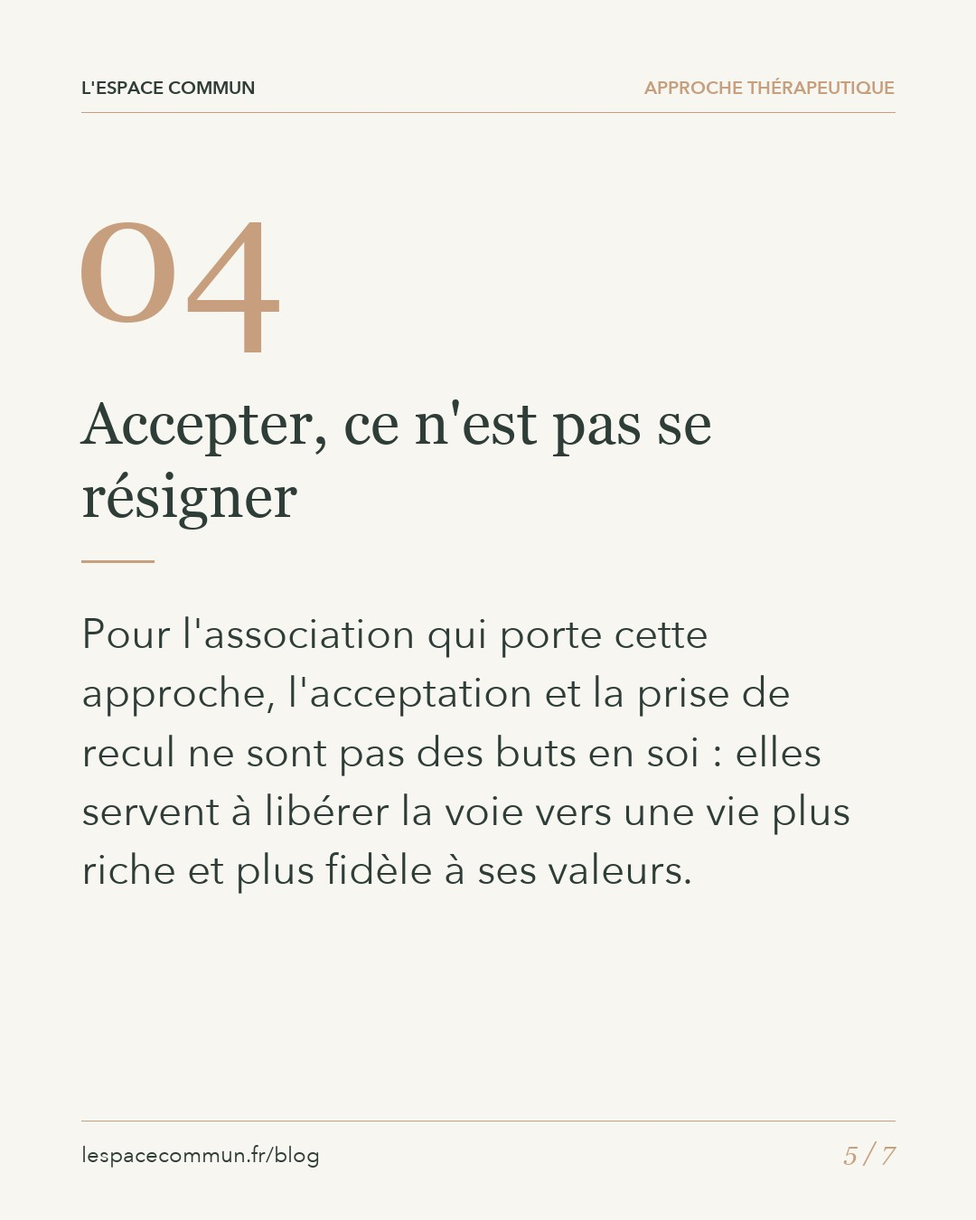
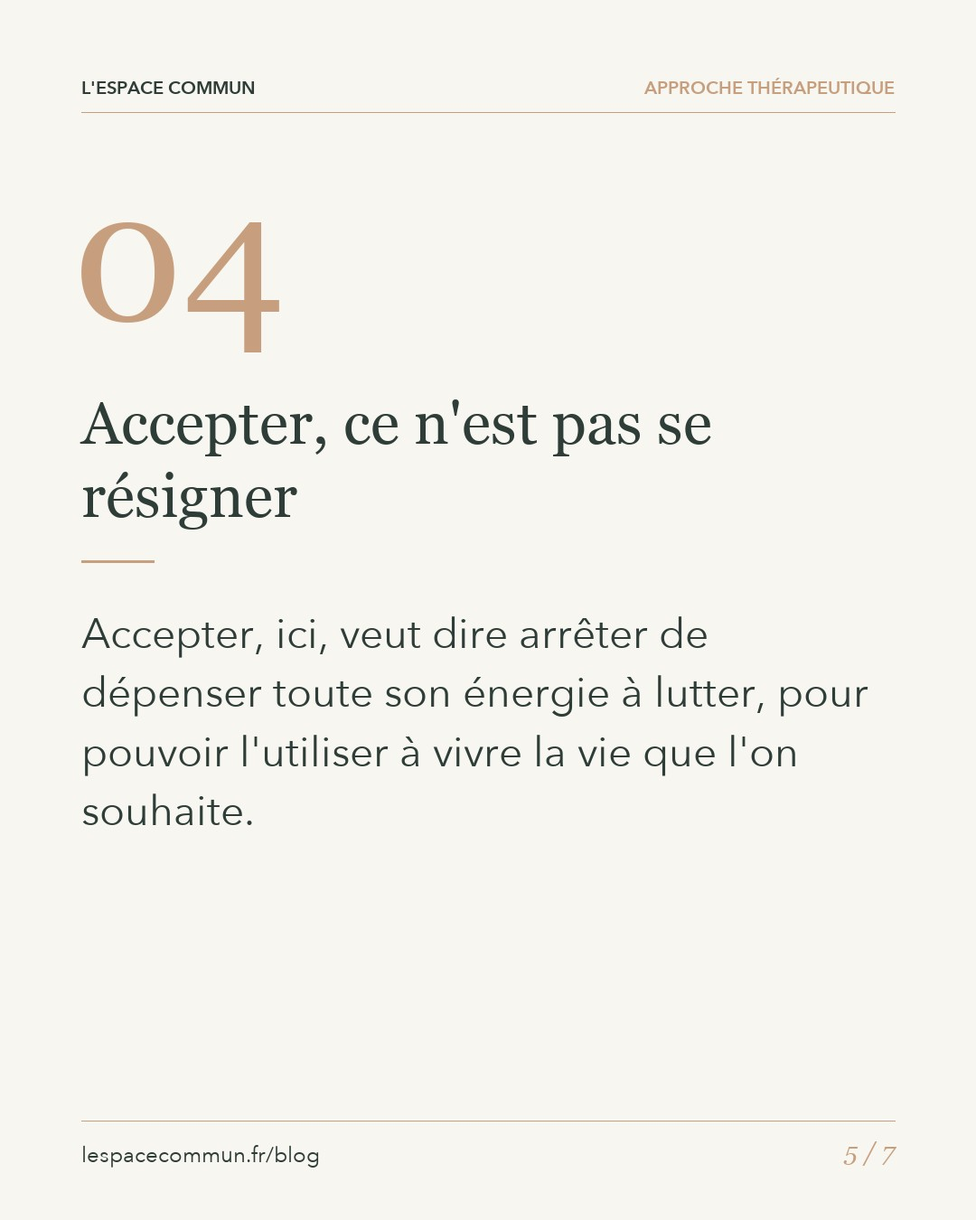
Blog : article ACT simplifié

diff --git a/blog/therapie-acceptation-engagement.html b/blog/therapie-acceptation-engagement.html
@@ -3,14 +3,14 @@
 <head>
   <meta charset="utf-8" />
   <meta name="viewport" content="width=device-width, initial-scale=1" />
-  <title>La thérapie d&#x27;acceptation et d&#x27;engagement (ACT) : cesser de lutter contre ses pensées pour avancer — Blog L&#x27;Espace Commun</title>
-  <meta name="description" content="Et si, plutôt que de chercher à faire taire ses pensées douloureuses, on apprenait à vivre avec elles sans les laisser décider à sa place ? C&#x27;est le pari de la thérapie d&#x27;acceptation et d&#x27;engagement, une approche issue des thérapies comportementales et cognitives, dont nous vous présentons les principes et ce que la recherche en dit." />
+  <title>La thérapie d&#x27;acceptation et d&#x27;engagement (ACT) : arrêter de lutter contre ses pensées pour mieux vivre — Blog L&#x27;Espace Commun</title>
+  <meta name="description" content="Et si, au lieu de vous battre contre vos pensées difficiles, vous appreniez à les laisser passer pour vous consacrer à ce qui compte pour vous ? C&#x27;est l&#x27;idée de la thérapie d&#x27;acceptation et d&#x27;engagement : voici, en mots simples, comment elle fonctionne et ce qu&#x27;elle peut vous apporter." />
   <link rel="canonical" href="https://lespacecommun.fr/blog/therapie-acceptation-engagement.html" />
   <meta property="og:type" content="website" />
   <meta property="og:locale" content="fr_FR" />
   <meta property="og:site_name" content="L'Espace Commun" />
-  <meta property="og:title" content="La thérapie d&#x27;acceptation et d&#x27;engagement (ACT) : cesser de lutter contre ses pensées pour avancer — Blog L&#x27;Espace Commun" />
-  <meta property="og:description" content="Et si, plutôt que de chercher à faire taire ses pensées douloureuses, on apprenait à vivre avec elles sans les laisser décider à sa place ? C&#x27;est le pari de la thérapie d&#x27;acceptation et d&#x27;engagement, une approche issue des thérapies comportementales et cognitives, dont nous vous présentons les principes et ce que la recherche en dit." />
+  <meta property="og:title" content="La thérapie d&#x27;acceptation et d&#x27;engagement (ACT) : arrêter de lutter contre ses pensées pour mieux vivre — Blog L&#x27;Espace Commun" />
+  <meta property="og:description" content="Et si, au lieu de vous battre contre vos pensées difficiles, vous appreniez à les laisser passer pour vous consacrer à ce qui compte pour vous ? C&#x27;est l&#x27;idée de la thérapie d&#x27;acceptation et d&#x27;engagement : voici, en mots simples, comment elle fonctionne et ce qu&#x27;elle peut vous apporter." />
   <meta property="og:url" content="https://lespacecommun.fr/blog/therapie-acceptation-engagement.html" />
   <meta property="og:image" content="https://lespacecommun.fr/images/espace-commun.jpg" />
   <link rel="icon" type="image/png" href="../images/favicon.png" />
@@ -104,34 +104,34 @@
 
   <article class="px-6 pt-10 pb-8 md:pt-14">
     <div class="mx-auto max-w-3xl">
-      <nav aria-label="Fil d'Ariane" class="mb-8 flex flex-wrap items-center gap-2 text-xs text-muted-foreground"><a href="../index.html" class="hover:text-sage">Accueil</a><span aria-hidden="true" class="text-border">/</span><a href="../blog/index.html" class="hover:text-sage">Blog</a><span aria-hidden="true" class="text-border">/</span><span class="text-foreground">La thérapie d&#x27;acceptation et d&#x27;engagement (ACT) : cesser de lutter contre ses pensées pour avancer</span></nav>
-      <p class="mb-5 flex flex-wrap items-center gap-x-3 gap-y-1 text-xs text-muted-foreground"><span class="font-semibold uppercase tracking-widest text-clay">Approche thérapeutique</span><time datetime="2026-10-23">23 octobre 2026</time><span>· 5 min de lecture</span></p>
-      <h1 class="mb-6 text-balance font-serif text-3xl leading-tight text-sage md:text-5xl">La thérapie d&#x27;acceptation et d&#x27;engagement (ACT) : cesser de lutter contre ses pensées pour avancer</h1>
-      <p class="mb-12 text-pretty text-lg leading-relaxed text-foreground/80">Et si, plutôt que de chercher à faire taire ses pensées douloureuses, on apprenait à vivre avec elles sans les laisser décider à sa place ? C&#x27;est le pari de la thérapie d&#x27;acceptation et d&#x27;engagement, une approche issue des thérapies comportementales et cognitives, dont nous vous présentons les principes et ce que la recherche en dit.</p>
+      <nav aria-label="Fil d'Ariane" class="mb-8 flex flex-wrap items-center gap-2 text-xs text-muted-foreground"><a href="../index.html" class="hover:text-sage">Accueil</a><span aria-hidden="true" class="text-border">/</span><a href="../blog/index.html" class="hover:text-sage">Blog</a><span aria-hidden="true" class="text-border">/</span><span class="text-foreground">La thérapie d&#x27;acceptation et d&#x27;engagement (ACT) : arrêter de lutter contre ses pensées pour mieux vivre</span></nav>
+      <p class="mb-5 flex flex-wrap items-center gap-x-3 gap-y-1 text-xs text-muted-foreground"><span class="font-semibold uppercase tracking-widest text-clay">Approche thérapeutique</span><time datetime="2026-10-23">23 octobre 2026</time><span>· 4 min de lecture</span></p>
+      <h1 class="mb-6 text-balance font-serif text-3xl leading-tight text-sage md:text-5xl">La thérapie d&#x27;acceptation et d&#x27;engagement (ACT) : arrêter de lutter contre ses pensées pour mieux vivre</h1>
+      <p class="mb-12 text-pretty text-lg leading-relaxed text-foreground/80">Et si, au lieu de vous battre contre vos pensées difficiles, vous appreniez à les laisser passer pour vous consacrer à ce qui compte pour vous ? C&#x27;est l&#x27;idée de la thérapie d&#x27;acceptation et d&#x27;engagement : voici, en mots simples, comment elle fonctionne et ce qu&#x27;elle peut vous apporter.</p>
       
           <section class="mb-12">
-            <h2 class="mb-5 text-balance font-serif text-2xl text-sage md:text-3xl">Une thérapie de la « troisième vague »</h2>
-            <div class="prose-ec"><p>La thérapie d'acceptation et d'engagement est souvent désignée par son sigle anglais, <strong>ACT</strong> (pour <em>Acceptance and Commitment Therapy</em>), qui se prononce comme le mot anglais <em>act</em>, « agir ». Elle appartient à la grande famille des thérapies comportementales et cognitives (TCC), et plus précisément à ce que l'on appelle leur « troisième vague », aux côtés de la thérapie comportementale dialectique ou de la thérapie cognitive basée sur la pleine conscience.</p><p>Son modèle a été présenté en détail en 2006 par le psychologue Steven C. Hayes et ses collègues, dans un article de synthèse de la revue <em>Behaviour Research and Therapy</em>. Il s'appuie sur un programme de recherche fondamentale consacré à la façon dont le langage et la pensée humaine fonctionnent.</p></div>
+            <h2 class="mb-5 text-balance font-serif text-2xl text-sage md:text-3xl">L&#x27;ACT, qu&#x27;est-ce que c&#x27;est ?</h2>
+            <div class="prose-ec"><p>ACT, c'est le sigle anglais de la <strong>thérapie d'acceptation et d'engagement</strong>. On le prononce comme le mot anglais <em>act</em>, qui veut dire « agir ». Ce n'est pas un hasard : cette thérapie aide à passer à l'action dans sa vie, même quand on ne se sent pas au mieux.</p><p>Elle fait partie de la grande famille des thérapies comportementales et cognitives (TCC). Elle a été développée par le psychologue américain <strong>Steven Hayes</strong> et ses collègues.</p></div>
           </section>
           <section class="mb-12">
-            <h2 class="mb-5 text-balance font-serif text-2xl text-sage md:text-3xl">Changer sa relation à ses pensées, plutôt que ses pensées</h2>
-            <div class="prose-ec"><p>Dans une thérapie cognitive classique, on apprend souvent à repérer une pensée qui fait souffrir (« je vais tout rater ») pour la discuter et la remplacer par une pensée plus juste. L'ACT prend un autre chemin : elle ne cherche pas d'abord à modifier le contenu des pensées, mais <strong>la relation que vous entretenez avec elles</strong>.</p><p>L'idée de départ est simple : beaucoup de souffrance vient de nos efforts pour ne plus ressentir l'angoisse, la tristesse ou la honte. On évite des situations, on rumine, on se distrait sans cesse… et la vie se rétrécit. Les spécialistes parlent d'<strong>évitement expérientiel</strong>. L'ACT propose de laisser de la place à ces vécus difficiles, pour consacrer son énergie à ce qui compte vraiment pour soi.</p><p>L'objectif central porte un nom : la <strong>flexibilité psychologique</strong>. L'Association for Contextual Behavioral Science, qui fédère les praticiens et chercheurs de l'ACT, la définit comme la capacité à être pleinement présent à ce que l'on vit, et à changer ou poursuivre un comportement selon qu'il sert, ou non, ce à quoi l'on tient.</p></div>
+            <h2 class="mb-5 text-balance font-serif text-2xl text-sage md:text-3xl">L&#x27;idée de départ : arrêter de lutter</h2>
+            <div class="prose-ec"><p>Quand une pensée ou une émotion nous fait mal, notre réflexe est de vouloir la faire disparaître. On évite ce qui nous angoisse, on ressasse, on s'occupe sans arrêt pour ne pas y penser. Le problème, c'est que cette lutte épuise. Et peu à peu, la vie se rétrécit.</p><p>Prenons un exemple. Vous avez peur de parler en public, alors vous refusez toutes les occasions de prendre la parole. Sur le moment, c'est un soulagement. Mais à force, vous renoncez à des projets qui vous tenaient à cœur.</p><p>L'ACT propose un autre chemin : ne plus chercher à tout prix à faire taire ces pensées, mais <strong>apprendre à vivre avec elles</strong>, sans les laisser décider à votre place.</p></div>
           </section>
           <section class="mb-12">
-            <h2 class="mb-5 text-balance font-serif text-2xl text-sage md:text-3xl">Les six piliers de l&#x27;ACT</h2>
-            <div class="prose-ec"><p>Le travail s'organise autour de six processus, souvent représentés sous la forme d'un hexagone (l'« hexaflex ») :</p><ul><li><strong>L'acceptation</strong> : accueillir une émotion ou une sensation pénible sans engager une lutte épuisante pour la faire disparaître.</li><li><strong>La défusion</strong> : prendre du recul vis-à-vis de ses pensées, les voir comme des pensées plutôt que comme des vérités. Un exercice courant consiste à se dire : « je remarque que j'ai la pensée que… ».</li><li><strong>Le contact avec le moment présent</strong> : revenir à l'ici et maintenant, par exemple grâce à des exercices de respiration ou de marche en pleine conscience.</li><li><strong>Le soi comme contexte</strong> : découvrir la part de soi qui observe ses pensées et ses émotions. Une image souvent utilisée : vous êtes le ciel, et vos émotions sont la météo qui passe sans changer le ciel.</li><li><strong>Les valeurs</strong> : clarifier ce qui compte pour vous (la tendresse, la curiosité, le lien aux autres…). Ce sont des directions de vie, et non des objectifs que l'on coche une fois pour toutes.</li><li><strong>L'action engagée</strong> : poser, pas à pas, des actes concrets qui vont dans le sens de ces valeurs, à l'aide d'objectifs à court, moyen et long terme.</li></ul></div>
+            <h2 class="mb-5 text-balance font-serif text-2xl text-sage md:text-3xl">Comment se passe une séance ?</h2>
+            <div class="prose-ec"><p>Le psychologue vous aide à développer six capacités, avec des exercices simples :</p><ul><li><strong>Accueillir</strong> une émotion désagréable au lieu de vous battre contre elle.</li><li><strong>Prendre du recul</strong> sur vos pensées. Par exemple, au lieu de « je suis nul », vous dites : « je remarque que j'ai la pensée que je suis nul ». La pensée est toujours là, mais elle pèse moins.</li><li><strong>Revenir au moment présent</strong>, grâce à des exercices de respiration ou d'attention à ce qui vous entoure.</li><li><strong>Prendre de la hauteur</strong>. Une image souvent utilisée : vous êtes le ciel, et vos émotions sont la météo. Les nuages passent, le ciel reste.</li><li><strong>Savoir ce qui compte pour vous</strong> : vos proches, votre curiosité, votre envie d'apprendre ou d'aider les autres…</li><li><strong>Agir pas à pas</strong> dans cette direction, avec de petits objectifs concrets.</li></ul></div>
           </section>
           <section class="mb-12">
             <h2 class="mb-5 text-balance font-serif text-2xl text-sage md:text-3xl">Accepter, ce n&#x27;est pas se résigner</h2>
-            <div class="prose-ec"><p>Le mot « acceptation » peut faire peur : faudrait-il se contenter de souffrir ? Ce n'est pas le sens de la démarche. Pour l'association qui porte cette approche, l'acceptation et la prise de recul ne sont pas des buts en soi : elles servent à <strong>libérer la voie vers une vie plus riche et plus fidèle à ses valeurs</strong>.</p><p>Concrètement, une question revient souvent en séance : pouvez-vous ressentir cela… et faire quand même ce qui compte pour vous ? Une personne anxieuse peut, par exemple, accepter le trac sans attendre qu'il disparaisse pour retourner voir ses amis ou prendre la parole en réunion. Le thérapeute aide aussi à distinguer les stratégies qui soulagent sur le moment de celles qui rapprochent d'une vie qui a du sens.</p></div>
+            <div class="prose-ec"><p>Le mot « acceptation » peut faire peur : faudrait-il se contenter de souffrir ? Pas du tout. Accepter, ici, veut dire arrêter de dépenser toute son énergie à lutter, pour pouvoir <strong>l'utiliser à vivre la vie que l'on souhaite</strong>.</p><p>En séance, une question revient souvent : « Pouvez-vous ressentir cela, et faire quand même ce qui compte pour vous ? » Une personne anxieuse peut ainsi retourner voir ses amis sans attendre que son trac ait disparu.</p></div>
           </section>
           <section class="mb-12">
-            <h2 class="mb-5 text-balance font-serif text-2xl text-sage md:text-3xl">Ce que dit la recherche</h2>
-            <div class="prose-ec"><p>L'ACT a fait l'objet de nombreuses études. Une revue publiée en 2019 dans la revue <em>Innovations in Clinical Neuroscience</em> (Carlile et coll.) recensait déjà plus de 280 essais contrôlés randomisés, portant notamment sur la dépression, l'anxiété, l'anxiété sociale, les douleurs chroniques, les symptômes psychotiques ou les troubles des conduites alimentaires.</p><p>En 2020, une équipe internationale dirigée par Andrew Gloster a rassemblé 20 méta-analyses (des études qui regroupent elles-mêmes de nombreux essais), soit environ 12 500 participants. Ses conclusions :</p><ul><li>l'ACT s'est montrée <strong>efficace dans toutes les situations examinées</strong> : anxiété, dépression, consommation de substances, douleur, difficultés mêlant plusieurs troubles ;</li><li>elle fait généralement mieux que l'absence de traitement, que les soins habituels et que la plupart des autres interventions ;</li><li>elle obtient des <strong>résultats comparables</strong> à ceux des TCC plus classiques.</li></ul><p>Ces résultats font de l'ACT une approche sérieuse et bien étudiée, qui peut aider dans de nombreuses situations.</p></div>
+            <h2 class="mb-5 text-balance font-serif text-2xl text-sage md:text-3xl">Est-ce que ça marche ?</h2>
+            <div class="prose-ec"><p>Oui. L'ACT est l'une des approches les plus étudiées de ces dernières années, avec <strong>plus de 280 études</strong> menées à travers le monde. Elles montrent qu'elle aide dans de nombreuses situations : l'anxiété, la dépression, les addictions, les douleurs chroniques.</p><p>Ses résultats sont comparables à ceux des TCC plus classiques. C'est donc une approche sérieuse, qui peut vous convenir si sa façon de voir les choses vous parle.</p></div>
           </section>
           <section class="mb-12">
             <h2 class="mb-5 text-balance font-serif text-2xl text-sage md:text-3xl">Et si cette approche vous parle ?</h2>
-            <div class="prose-ec"><p>L'ACT peut convenir aux personnes qui ont le sentiment de se battre en permanence contre leurs pensées ou leurs émotions, qui évitent de plus en plus de situations, ou qui traversent une épreuve qu'elles ne peuvent pas changer pour le moment. Elle peut aussi intégrer d'autres outils, comme la fixation d'objectifs ou l'exposition progressive aux situations redoutées.</p><p>Chaque parcours est unique, et le choix d'une approche se fait toujours avec un professionnel. Chez L'Espace Commun, Andie, fondatrice du centre, prend le temps d'écouter votre demande et vous oriente vers le psychologue le plus adapté à votre situation.</p></div>
+            <div class="prose-ec"><p>L'ACT peut vous aider si vous avez l'impression de vous battre sans cesse contre vos pensées ou vos émotions, si vous évitez de plus en plus de situations, ou si vous traversez une épreuve que vous ne pouvez pas changer pour l'instant.</p><p>Chez L'Espace Commun, Andie, fondatrice du centre, prend le temps d'écouter votre demande et vous oriente vers le psychologue le plus adapté à votre situation.</p></div>
           </section>
       <a href="../approches/tcc.html" class="mb-10 flex items-center justify-between gap-4 rounded-2xl bg-secondary p-6 ring-1 ring-border transition-colors hover:bg-sage/5"><span><span class="mb-1 block text-xs font-semibold uppercase tracking-widest text-clay">Pour aller plus loin</span><span class="font-serif text-lg text-sage">Thérapies cognitives et comportementales (TCC)</span></span><svg width="14" height="14" viewBox="0 0 24 24" fill="none" stroke="currentColor" stroke-width="2" stroke-linecap="round" stroke-linejoin="round" aria-hidden="true"><path d="M5 12h14M13 6l6 6-6 6"/></svg></a>
       <aside class="rounded-2xl border border-border p-6 md:p-8">

diff --git a/approches/tcc.html b/approches/tcc.html
@@ -222,7 +222,7 @@
     <div class="mx-auto max-w-6xl">
       <p class="mb-4 text-xs font-semibold uppercase tracking-wider text-muted-foreground">À lire aussi</p>
       <div class="flex flex-wrap gap-2"><a href="../approches/psychanalyse.html" class="rounded-full px-4 py-2 text-sm text-muted-foreground ring-1 ring-border transition-colors hover:bg-secondary hover:text-sage">Psychanalyse</a><a href="../approches/emdr.html" class="rounded-full px-4 py-2 text-sm text-muted-foreground ring-1 ring-border transition-colors hover:bg-secondary hover:text-sage">EMDR</a><a href="../approches/hypnotherapie.html" class="rounded-full px-4 py-2 text-sm text-muted-foreground ring-1 ring-border transition-colors hover:bg-secondary hover:text-sage">Hypnothérapie</a><a href="../approches/icv.html" class="rounded-full px-4 py-2 text-sm text-muted-foreground ring-1 ring-border transition-colors hover:bg-secondary hover:text-sage">Intégration du Cycle de la Vie (ICV)</a><a href="../approches/therapie-breve.html" class="rounded-full px-4 py-2 text-sm text-muted-foreground ring-1 ring-border transition-colors hover:bg-secondary hover:text-sage">Thérapie brève</a><a href="../approches/systemique.html" class="rounded-full px-4 py-2 text-sm text-muted-foreground ring-1 ring-border transition-colors hover:bg-secondary hover:text-sage">Systémique</a><a href="../approches/stimulation-cognitive.html" class="rounded-full px-4 py-2 text-sm text-muted-foreground ring-1 ring-border transition-colors hover:bg-secondary hover:text-sage">Stimulation cognitive</a><a href="../approches/coaching.html" class="rounded-full px-4 py-2 text-sm text-muted-foreground ring-1 ring-border transition-colors hover:bg-secondary hover:text-sage">Coaching psychologique</a><a href="../approches/integrative.html" class="rounded-full px-4 py-2 text-sm text-muted-foreground ring-1 ring-border transition-colors hover:bg-secondary hover:text-sage">Approche intégrative</a></div>
-      <a href="../blog/therapie-cognitive-pleine-conscience.html" class="mt-6 flex items-center justify-between gap-4 rounded-xl bg-secondary p-5 ring-1 ring-border hover:bg-sage/5"><span><span class="mb-1 block text-xs font-semibold uppercase tracking-widest text-clay">Sur le blog · 1 novembre 2026</span><span class="font-serif text-lg text-sage">La thérapie cognitive basée sur la pleine conscience : apprendre à prévenir les rechutes de dépression</span></span><svg width="14" height="14" viewBox="0 0 24 24" fill="none" stroke="currentColor" stroke-width="2" stroke-linecap="round" stroke-linejoin="round" aria-hidden="true"><path d="M5 12h14M13 6l6 6-6 6"/></svg></a><a href="../blog/therapie-acceptation-engagement.html" class="mt-6 flex items-center justify-between gap-4 rounded-xl bg-secondary p-5 ring-1 ring-border hover:bg-sage/5"><span><span class="mb-1 block text-xs font-semibold uppercase tracking-widest text-clay">Sur le blog · 23 octobre 2026</span><span class="font-serif text-lg text-sage">La thérapie d&#x27;acceptation et d&#x27;engagement (ACT) : cesser de lutter contre ses pensées pour avancer</span></span><svg width="14" height="14" viewBox="0 0 24 24" fill="none" stroke="currentColor" stroke-width="2" stroke-linecap="round" stroke-linejoin="round" aria-hidden="true"><path d="M5 12h14M13 6l6 6-6 6"/></svg></a><a href="../blog/therapie-des-schemas.html" class="mt-6 flex items-center justify-between gap-4 rounded-xl bg-secondary p-5 ring-1 ring-border hover:bg-sage/5"><span><span class="mb-1 block text-xs font-semibold uppercase tracking-widest text-clay">Sur le blog · 17 octobre 2026</span><span class="font-serif text-lg text-sage">La thérapie des schémas : quand nos blessures d&#x27;enfance dictent nos réactions d&#x27;adulte</span></span><svg width="14" height="14" viewBox="0 0 24 24" fill="none" stroke="currentColor" stroke-width="2" stroke-linecap="round" stroke-linejoin="round" aria-hidden="true"><path d="M5 12h14M13 6l6 6-6 6"/></svg></a>
+      <a href="../blog/therapie-cognitive-pleine-conscience.html" class="mt-6 flex items-center justify-between gap-4 rounded-xl bg-secondary p-5 ring-1 ring-border hover:bg-sage/5"><span><span class="mb-1 block text-xs font-semibold uppercase tracking-widest text-clay">Sur le blog · 1 novembre 2026</span><span class="font-serif text-lg text-sage">La thérapie cognitive basée sur la pleine conscience : apprendre à prévenir les rechutes de dépression</span></span><svg width="14" height="14" viewBox="0 0 24 24" fill="none" stroke="currentColor" stroke-width="2" stroke-linecap="round" stroke-linejoin="round" aria-hidden="true"><path d="M5 12h14M13 6l6 6-6 6"/></svg></a><a href="../blog/therapie-acceptation-engagement.html" class="mt-6 flex items-center justify-between gap-4 rounded-xl bg-secondary p-5 ring-1 ring-border hover:bg-sage/5"><span><span class="mb-1 block text-xs font-semibold uppercase tracking-widest text-clay">Sur le blog · 23 octobre 2026</span><span class="font-serif text-lg text-sage">La thérapie d&#x27;acceptation et d&#x27;engagement (ACT) : arrêter de lutter contre ses pensées pour mieux vivre</span></span><svg width="14" height="14" viewBox="0 0 24 24" fill="none" stroke="currentColor" stroke-width="2" stroke-linecap="round" stroke-linejoin="round" aria-hidden="true"><path d="M5 12h14M13 6l6 6-6 6"/></svg></a><a href="../blog/therapie-des-schemas.html" class="mt-6 flex items-center justify-between gap-4 rounded-xl bg-secondary p-5 ring-1 ring-border hover:bg-sage/5"><span><span class="mb-1 block text-xs font-semibold uppercase tracking-widest text-clay">Sur le blog · 17 octobre 2026</span><span class="font-serif text-lg text-sage">La thérapie des schémas : quand nos blessures d&#x27;enfance dictent nos réactions d&#x27;adulte</span></span><svg width="14" height="14" viewBox="0 0 24 24" fill="none" stroke="currentColor" stroke-width="2" stroke-linecap="round" stroke-linejoin="round" aria-hidden="true"><path d="M5 12h14M13 6l6 6-6 6"/></svg></a>
     </div>
   </section>
   

diff --git a/blog/index.html b/blog/index.html
@@ -202,9 +202,9 @@
         </a>
         <a href="../blog/therapie-acceptation-engagement.html" class="group flex flex-col justify-between gap-6 rounded-2xl border border-border bg-canvas p-6 transition-all hover:-translate-y-0.5 hover:shadow-xl md:p-8 ">
           <div>
-            <p class="mb-4 flex flex-wrap items-center gap-x-3 gap-y-1 text-xs text-muted-foreground"><span class="font-semibold uppercase tracking-widest text-clay">Approche thérapeutique</span><span>23 octobre 2026</span><span>· 5 min de lecture</span></p>
-            <h3 class="mb-3 text-balance font-serif text-xl text-sage">La thérapie d&#x27;acceptation et d&#x27;engagement (ACT) : cesser de lutter contre ses pensées pour avancer</h3>
-            <p class="text-sm leading-relaxed text-muted-foreground line-clamp-4">Et si, plutôt que de chercher à faire taire ses pensées douloureuses, on apprenait à vivre avec elles sans les laisser décider à sa place ? C&#x27;est le pari de la thérapie d&#x27;acceptation et d&#x27;engagement, une approche issue des thérapies comportementales et cognitives, dont nous vous présentons les principes et ce que la recherche en dit.</p>
+            <p class="mb-4 flex flex-wrap items-center gap-x-3 gap-y-1 text-xs text-muted-foreground"><span class="font-semibold uppercase tracking-widest text-clay">Approche thérapeutique</span><span>23 octobre 2026</span><span>· 4 min de lecture</span></p>
+            <h3 class="mb-3 text-balance font-serif text-xl text-sage">La thérapie d&#x27;acceptation et d&#x27;engagement (ACT) : arrêter de lutter contre ses pensées pour mieux vivre</h3>
+            <p class="text-sm leading-relaxed text-muted-foreground line-clamp-4">Et si, au lieu de vous battre contre vos pensées difficiles, vous appreniez à les laisser passer pour vous consacrer à ce qui compte pour vous ? C&#x27;est l&#x27;idée de la thérapie d&#x27;acceptation et d&#x27;engagement : voici, en mots simples, comment elle fonctionne et ce qu&#x27;elle peut vous apporter.</p>
           </div>
           <span class="flex items-center gap-2 text-sm font-medium text-sage transition-all group-hover:gap-3">Lire l'article <svg width="14" height="14" viewBox="0 0 24 24" fill="none" stroke="currentColor" stroke-width="2" stroke-linecap="round" stroke-linejoin="round" aria-hidden="true"><path d="M5 12h14M13 6l6 6-6 6"/></svg></span>
         </a>
